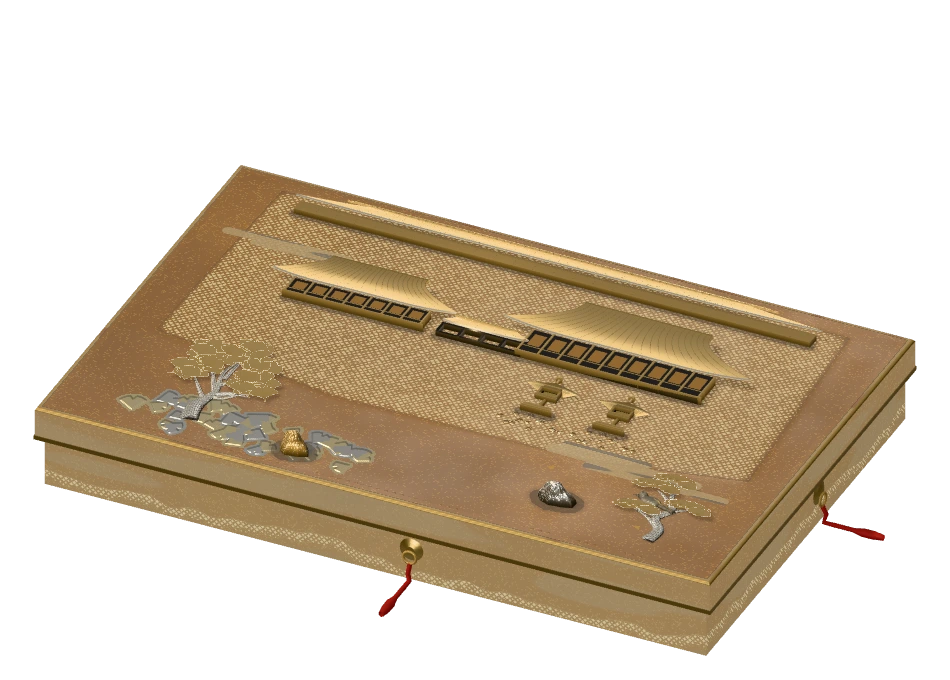
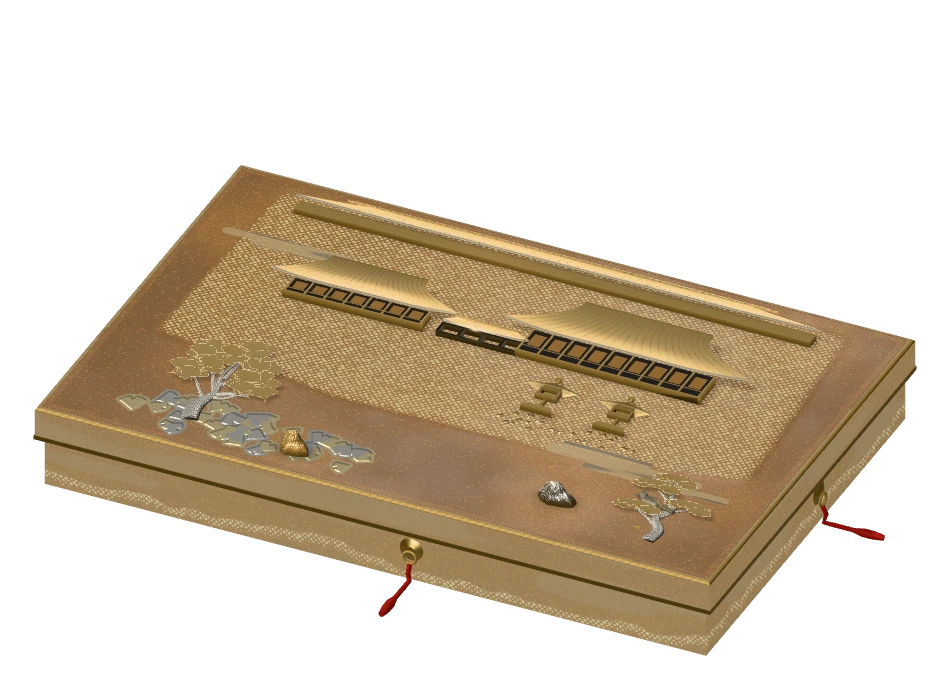
fix(plate): shade at the foot of things is light withheld, not dirt painted on; gradings everywhere
User review: the painted stain was too neat and looked deliberate; what is
light and shadow should not be drawn, and the Hatsune pieces grade everywhere.
- Removed the painted stain, foot line and bank crease from the lid.
- The contact field now only occludes: less ambient and room light reaches the
  lid near a foot, with no colour added and no edge.
- Maki-bokashi carries further on the aged ground; a rock keeps the ground's
  tone at its foot; silver strips in the mist and wear on the lip have soft
  edges; the walls darken in one long grade; feet of pieces are less black.
- Fallback pictures reshot.

diff --git a/src/studies/toji/plate/three-pack.js b/src/studies/toji/plate/three-pack.js
@@ -288,7 +288,7 @@ export const PART_LIGHT_GLSL = `
 // L1 the pieces darken where they meet the ground; L2 faces turned down catch the gold ground's bounce.
 const float K_CONTACT_MIN=.45, K_CONTACT_H=10., K_BOUNCE=.8;
 // With age the foot is darker still and the ground's bounce is duller.
-const float K_AGE_CONTACT_MIN=.22, K_AGE_BOUNCE=.6;
+const float K_AGE_CONTACT_MIN=.36, K_AGE_BOUNCE=.6;
 const vec3 K_BOUNCE_C=vec3(1.,.72,.36);
 const float K_WIN=.55; // soft window reflection intensity on upward-facing metallic parts
 const float K_WIN_SOFT=.35; // soft window reflection angular width (larger is wider)
@@ -308,6 +308,8 @@ vec3 kyotoKiriGold(){return mix(K_KIRI_GOLD,K_KIRI_GOLD_AGED,uAge);}
 // Silver sulphides with age: K_TARNISH is what is left of it at age 1 (a warm dark grey). k is how exposed the place
 // is to it: 1 in the hollows and the shade, less on ridges and foil that handling keeps rubbed bright.
 const vec3 K_TARNISH=vec3(.46,.42,.36);
+const vec3 K_ROCK_FOOT=vec3(.43,.29,.14); // the aged ground's tone, which a rock keeps at its foot
+const float K_ROCK_FOOT_H=9., K_ROCK_FOOT_AMT=.6; // how high the ground's tone climbs the rock, and how fully it takes it
 vec3 kyotoAgedSilver(vec3 c,float k){return c*mix(vec3(1.),K_TARNISH,clamp(uAge*k,0.,1.));}
 const vec3 K_ROCK_BODY_GOLD=vec3(.36,.22,.06); // dark bronze ground between the gold foil on the lit face of a rock
 const vec3 K_ROCK_BODY_SHADE=vec3(.27,.27,.26); // the ground where the rock turns away from the light: oxidized silver, dark
@@ -502,6 +504,7 @@ const vec3 M_AGE_BODY=vec3(.42,.35,.22), M_AGE_BODY_NIGHT=vec3(.80,.74,.62), M_A
 // The coat no longer mirrors evenly (M_AGE_HAZE: how far its gloss swings from place to place), the lacquer lies a
 // little thicker here and thinner there (M_AGE_MURA: the swing in the ground's value), and where a bank's crown has
 // been rubbed for centuries the red-brown under-lacquer shows through the gold (M_AGE_WEAR, M_UNDER).
+const float M_AGE_BOKASHI=2.4;
 const float M_AGE_HAZE=1.1, M_AGE_MURA=.26, M_AGE_WEAR=.3;
 const vec3 M_UNDER=vec3(.21,.075,.04);
 const vec3 M_CORAL=vec3(.60,.115,.06);
@@ -517,16 +520,16 @@ ivec2 mIdent0(vec2 p){
 float mHash(vec2 p){vec3 q=fract(vec3(p.xyx)*.1031);q+=dot(q,q.yzx+33.33);return fract((q.x+q.y)*q.z);}
 vec2 mHash2(vec2 p){vec3 q=fract(vec3(p.xyx)*vec3(.1031,.1030,.0973));q+=dot(q,q.yzx+33.33);return fract((q.xx+q.yz)*q.zy);}
 float mVnoise(vec2 p){vec2 i=floor(p),f=fract(p);f=f*f*(3.-2.*f);return mix(mix(mHash(i),mHash(i+vec2(1.,0.)),f.x),mix(mHash(i+vec2(0.,1.)),mHash(i+1.),f.x),f.y);}
-vec3 mN, mHk, mHp, mKeyC, mPoolC, mAmbC, mWP; float mAtt, mDk, mDp, mWake=0., mSh=1., mBand=0., mSheen=0.;
+vec3 mN, mHk, mHp, mKeyC, mPoolC, mAmbC, mWP; float mAtt, mDk, mDp, mWake=0., mSh=1., mOcc=1., mBand=0., mSheen=0.;
 float mPool(){return M_POOL*mix(1.,M_AGE_POOL,uAge);}
-vec3 mLight(){return M_AMB*mAmbC+(M_KEY*mDk*mKeyC+mPool()*mAtt*mDp*mPoolC)*mSh;}
+vec3 mLight(){return M_AMB*mAmbC*mOcc+(M_KEY*mDk*mKeyC+mPool()*mAtt*mDp*mPoolC)*mSh;}
 vec3 mSpec(float e){return (M_KEY*pow(max(dot(mN,mHk),0.),e)*mKeyC+mPool()*mAtt*pow(max(dot(mN,mHp),0.),e)*mPoolC)*mSh;}
 vec3 mAgedSilver(vec3 f0,vec2 p,float k){return f0*mix(vec3(1.),M_TARNISH,clamp(uAge*k*(.86+.26*smoothstep(.25,.8,mVnoise(p*.05+17.))),0.,1.));}
-vec3 mAgedLacquer(vec3 c){return c*mix(vec3(1.),mix(M_AGE_BODY,M_AGE_BODY_NIGHT,uNight),uAge)+M_AGE_VEIL*uAge*(mAmbC*.55+mKeyC*mDk*.45*mSh);}
+vec3 mAgedLacquer(vec3 c){return c*mix(vec3(1.),mix(M_AGE_BODY,M_AGE_BODY_NIGHT,uNight),uAge)+M_AGE_VEIL*uAge*(mAmbC*.55*mOcc+mKeyC*mDk*.45*mSh);}
 vec3 mRoom(float rough){
   vec3 r=reflect(-uView,mN);
   float up=smoothstep(-.35,1.,r.y),win=smoothstep(mix(.74,.15,rough),1.,dot(r,uKey));
-  return mAmbC*(.04+.30*up*up)+mKeyC*win*mix(1.15,.5,rough);
+  return (mAmbC*(.04+.30*up*up)+mKeyC*win*mix(1.15,.5,rough))*mix(1.,mOcc,.7);
 }
 void mSetLight(vec3 n,vec3 worldPos){
   mN=n;mWP=worldPos;
@@ -613,10 +616,9 @@ export const MAKIE_GROUND_PARS_GLSL = `
 varying float vGlow; uniform float uGlowBase, uGlowGain;
 uniform sampler2D uState, uFine0, uDens, uContact;
 uniform float uDensView, uDensMean;
-// Age at the foot of things: a dark line of bare lacquer hard against the foot (M_AGE_LINE, within _LINE_W of the
-// field's top), a wider stain of dirt round it (M_AGE_STAIN), and the same crease along the edge of a bank.
-const float M_AGE_LINE=.95, M_AGE_LINE_W=.22, M_AGE_STAIN=.55, M_AGE_CREASE=.55;
-const vec3 M_AGE_DIRT=vec3(.085,.06,.042);
+// Where things stand they shut out the room: the lid gets less of the sky's light there (M_OCC_AMB) and a little
+// less of everything else (M_OCC_ALL). It is light withheld, never a colour laid on, and it fades out with no edge.
+const float M_OCC_AMB=.85, M_OCC_ALL=.16;
 const float M_DENS_MORE=${DENSITY.more.toFixed(3)}, M_DENS_LESS=${DENSITY.less.toFixed(3)};
 varying vec2 vKyotoPlate;
 varying vec3 vKyotoWorld, vKyotoNormal, vKyotoTanX, vKyotoTanZ;
@@ -632,7 +634,7 @@ if(abs(kp.x)>M_HALF.x||abs(kp.y)>M_HALF.y){
   vec3 bc=out_>7.4?mMetal(kp,M_GOLD*.92,1.):out_>6.4?mMetal(kp,M_GOLD*.6,1.):mNashiji(kp,.9,M_GOLD);
   // The lip is where hands lift the lid: its gold has worn through to the lacquer in patches, most at the corners.
   float corner=smoothstep(.86,1.,min(abs(kp.x)/M_HALF.x,abs(kp.y)/M_HALF.y));
-  float worn=uAge*step(6.4,out_)*smoothstep(.62-.22*corner,.80,mVnoise(kp*.045+2.))*.7;
+  float worn=uAge*step(6.4,out_)*smoothstep(.46-.22*corner,.86,mVnoise(kp*.045+2.))*.5;
   bc=mix(bc,M_UNDER*(.3+mLight()),worn);
   outgoingLight=mFinish(bc,1.).rgb;
   diffuseColor.a=1.;
@@ -661,13 +663,18 @@ if(abs(kp.x)>M_HALF.x||abs(kp.y)>M_HALF.y){
     }
   #endif
   mSh=mix(1.,sh,.86);
+  // Occlusion from the contact field (bake.js): squared twice over so it has no edge anywhere.
+  float occ=texture(uContact,mPuv(kp)).r;occ*=occ*(3.-2.*occ);
+  mOcc=1.-M_OCC_AMB*occ*uAge;mSh*=1.-M_OCC_ALL*occ*uAge;
   mSetLight(normalize(normalize(vKyotoNormal)-grad.x*vKyotoTanX-grad.y*vKyotoTanZ),vKyotoWorld);
   float line=fine.b;vec3 L=mLight();
   float w=smoothstep(.02,.34,hs);
   float dens=.82+.22*mVnoise(kp*.02),kAmt=0.,wN=0.,wM=0.,wS=0.,bigD=0.,bigCell=6.6,bigSq=0.;
   vec3 tint=M_GOLD,f0=M_GOLD,c=vec3(0.);
   float dField=texture(uDens,mPuv(kp)).r;
-  if(mat==1){wN=1.;dens*=dField>=uDensMean?1.+M_DENS_MORE*(dField-uDensMean)/max(1.-uDensMean,.05):1.-M_DENS_LESS*(uDensMean-dField)/max(uDensMean,.05);}
+  // Maki-bokashi: powder gathers toward things and thins in the open. On an old, darker ground the grading carries
+  // further (M_AGE_BOKASHI times as strong at age 1): it is what joins a form to the ground it stands on.
+  if(mat==1){float bk=mix(1.,M_AGE_BOKASHI,uAge);wN=1.;dens*=dField>=uDensMean?1.+M_DENS_MORE*bk*(dField-uDensMean)/max(1.-uDensMean,.05):1.-min(M_DENS_LESS*bk,.6)*(uDensMean-dField)/max(uDensMean,.05);}
   else if(mat==2||mat==3){
     float cloud=mat==3?mVnoise(kp*.045)*.6+mVnoise(kp*.13)*.3:.55;
     // Land in the Hatsune lids is pale smooth gold; powder gathers thick at the foot and thins toward the crown.
@@ -739,14 +746,6 @@ if(abs(kp.x)>M_HALF.x||abs(kp.y)>M_HALF.y){
     float wr=smoothstep(.62,.95,hs)*smoothstep(.50,.72,mVnoise(M_R1*kp*.07+5.)*.62+mVnoise(M_R2*kp*.19)*.38)*M_AGE_WEAR*uAge;
     c=mix(c,M_UNDER*(.3+L),wr);
   }
-  if(uAge>0.){
-    // The meshes overhang their own footprints, so only the field's lower half shows round them: stretch it.
-    float ct=smoothstep(0.,.6,texture(uContact,mPuv(kp)).r);
-    float lineC=smoothstep(1.-M_AGE_LINE_W,1.-M_AGE_LINE_W*.35,ct),stain=ct*(.45+.55*ct)*(.7+.6*mVnoise(kp*.09));
-    float crease=smoothstep(.0,.012,hs)*(1.-smoothstep(.012,.07,hs))*step(float(mat),4.5)*step(1.5,float(mat));
-    float dirt=clamp(max(lineC*M_AGE_LINE,crease*M_AGE_CREASE)+stain*M_AGE_STAIN,0.,.85)*uAge;
-    c=mix(c,M_AGE_DIRT*(.35+L),dirt);
-  }
   if(uDensView>2.5)c=vec3(texture(uContact,mPuv(kp)).r*.8);
   else if(uDensView>1.5)c=mat==1?vec3(1.,0.,1.):vec3(0.,1.,0.); // dev mask: which pixels are plain ground
   else if(uDensView>.5)c=vec3(dField*.8);
@@ -778,9 +777,9 @@ export const BOX_SIDE_FRAG_GLSL = `
   c=mix(c,mKiriColor(mix(M_GOLD,M_PALE,.6)),kv)+M_PALE*kg;
   // Walls face the room, not the window: keep them a warmer, slightly deeper amber than the lid.
   const float K_SIDE_DIM=.82; // dim box walls one step below the lid while keeping rim and edge bright
-  // Dirt gathers toward the foot of the walls, and under the lid's overhang.
-  float low=smoothstep(-96.,-132.,sp.y)*(.75+.5*mVnoise(vec2(sp.x*.02,7.))),under=body*smoothstep(-47.,-36.,sp.y);
-  c=mix(c,c*vec3(.50,.43,.36),clamp(low*.62+under*.4,0.,.8)*uAge);
+  // The walls darken toward the foot in one long grade, as a box does that has stood on a shelf.
+  float low=smoothstep(-70.,-134.,sp.y);
+  c=mix(c,c*vec3(.56,.49,.42),low*low*.6*uAge);
   outgoingLight=mFinish(c*vec3(1.,.86,.62)*.9*K_SIDE_DIM,1.).rgb;
 }`;
 
@@ -827,7 +826,7 @@ void main(){
   // Suyari-gasumi in the Hatsune lids is dense, bright gold (濃梨子地 into flat gold), clearly richer than the ground.
   vec3 c=.5*mNashiji(vKyotoUv,1.6,mix(M_GOLD,M_PALE,.5))+.5*mMetal(vKyotoUv,M_PALE*.95,1.)+.25*mSheet(M_PALE);
   // Long thin strips of grey silver lie in the gold (the Hatsune mist bands alternate the two metals).
-  float sv=smoothstep(.50,.60,mVnoise(vec2(vKyotoUv.x*.012,vKyotoUv.y*.19)+vPartId*3.7));
+  float sv=smoothstep(.40,.68,mVnoise(vec2(vKyotoUv.x*.012,vKyotoUv.y*.19)+vPartId*3.7));
   c=mix(c,mMetal(vKyotoUv,mAgedSilver(M_OXID,vKyotoUv,1.),1.)*.9+.2*mSheet(mAgedSilver(M_SILVER,vKyotoUv,.7)),sv*.9);
   fragColor=mFinish(c,alpha);
 }`;

diff --git a/src/studies/toji/plate/three-renderer.js b/src/studies/toji/plate/three-renderer.js
@@ -148,7 +148,7 @@ export function createThreeRenderer(gl, canvas) {
     const isRock = isPart && Boolean(spec.rock), isSilverRock = spec.rock === 'silver';
     // Black lacquer on the pieces (walls, plinths) is shin-nuri: polished to a dark mirror.
     const isLacq = isPart && spec.name === 'lacquer';
-    material.customProgramCacheKey = () => `kyoto-${call}-${spec.glow ? 1 : 0}${isPart ? '-l2w' : ''}${isRock ? `-rock-kiri-v3${isSilverRock ? 's' : ''}` : ''}${isLacq ? '-shinnuri' : ''}`;
+    material.customProgramCacheKey = () => `kyoto-${call}-${spec.glow ? 1 : 0}${isPart ? '-l2w' : ''}${isRock ? `-rock-kiri-v4${isSilverRock ? 's' : ''}` : ''}${isLacq ? '-shinnuri' : ''}`;
     material.onBeforeCompile = shader => {
       bindGlow(shader, spec);
       shader.vertexShader = shader.vertexShader
@@ -175,7 +175,9 @@ vec3 kyotoRockFoil = kyotoRockSilver ? kyotoAgedSilver(mix(K_ROCK_FOIL_OXID, K_R
 // Old foil is uneven: some squares have dulled, more of them in silver than in gold.
 kyotoRockFoil *= mix(.9 + .2 * kyotoRockTone, kyotoRockSilver ? .62 + .62 * kyotoRockTone : .74 + .42 * kyotoRockTone, uAge);
 diffuseColor.rgb = mix(kyotoAgedSilver(K_ROCK_BODY_SHADE, 1.), kyotoRockSilver ? kyotoAgedSilver(K_ROCK_BODY_SILVER, .8) : K_ROCK_BODY_GOLD, kyotoRockLit);
-diffuseColor.rgb = mix(diffuseColor.rgb, kyotoRockFoil, kyotoRockKiri * K_ROCK_KIRI_COVER);`)
+diffuseColor.rgb = mix(diffuseColor.rgb, kyotoRockFoil, kyotoRockKiri * K_ROCK_KIRI_COVER);
+// The mound rises out of the lid: at its foot it is still the ground's own tone, with no edge between them.
+diffuseColor.rgb = mix(diffuseColor.rgb, K_ROCK_FOOT, (1. - smoothstep(0., K_ROCK_FOOT_H, vLift)) * K_ROCK_FOOT_AMT * uAge);`)
           .replace('#include <roughnessmap_fragment>', `#include <roughnessmap_fragment>
 roughnessFactor = mix(K_OXID_ROUGH, roughnessFactor, kyotoRockLit);
 roughnessFactor = mix(roughnessFactor, mix(K_KIRI_ROUGH, K_KIRI_ROUGH_NIGHT, uNight), kyotoRockKiri);`);

diff --git a/docs/HANDOFF.md b/docs/HANDOFF.md
@@ -31,7 +31,7 @@ npm run dev -- --host 127.0.0.1 --strictPort
 |---|---|
 | 資料 | **792 筆**，`validate_data.js --strict` ERROR 0／WARN 0。2026-11-16 查完十一區所有食處（Tabelog）與「世界遺產」「國寶」標籤：退役 17 筆、改區 27 筆。「營業中」的依據是 Tabelog 英文版沒有閉店類標示，不是現場確認。寺社、商店等其他類型的事實查核還沒做 |
 | 首頁文庫 | 十一區文箱，每區一面蒔繪盤；單指盒面移光，長拖換函，雙指捏合／滾輪／快捷鍵放大（上限 3 倍），點蓋／Enter／空白鍵開蓋直入 `DetailView`；月光預設、閒置移光 |
-| 蒔繪盤 | **只有 three.js 一條管線**（`plate/three-renderer.js`＋`three-pack.js`）。舊的自寫 WebGL2 管線、2.5D 浮雕與 `?three=0` 已刪。狐、鳳凰、鶯、銀沙灘與向月台、石垣都是 three 網格，沒有平塗佔位。岩面是菱形切金（受光大而密、背光小而疏），銀岩是銀。地有疏密場（靠近物較密）。九區有依附小景（`plate/<區>.js` 裡帶 `on` 欄位的部件）。**銀的分工**（2026-11-16 對照德川美術館「初音蒔絵文台・硯箱（部分）」照片）：葉是金的樹，幹與枝是銀（背光氧化銀灰、受光淡銀、上面是切銀）；開銀花的櫻保留金幹；霞帶的金裡躺著細長的灰銀條。**作舊**（`claude/patina-1116`，未上線）：總開關 `?age=0..1`（預設 .85，0 是全新）；地是深棕橙的梨子地、圖的金比地淡、岩與樹幹的陰面是硫化銀的暖深灰、部件腳邊有積汙；代表白色的銀（砂、狐、花）保持淡；紅珊瑚（`MAT.coral`）用在楓葉、梅心、「大」字 |
+| 蒔繪盤 | **只有 three.js 一條管線**（`plate/three-renderer.js`＋`three-pack.js`）。舊的自寫 WebGL2 管線、2.5D 浮雕與 `?three=0` 已刪。狐、鳳凰、鶯、銀沙灘與向月台、石垣都是 three 網格，沒有平塗佔位。岩面是菱形切金（受光大而密、背光小而疏），銀岩是銀。地有疏密場（靠近物較密）。九區有依附小景（`plate/<區>.js` 裡帶 `on` 欄位的部件）。**銀的分工**（2026-11-16 對照德川美術館「初音蒔絵文台・硯箱（部分）」照片）：葉是金的樹，幹與枝是銀（背光氧化銀灰、受光淡銀、上面是切銀）；開銀花的櫻保留金幹；霞帶的金裡躺著細長的灰銀條。**作舊**（`claude/patina-1116`，未上線）：總開關 `?age=0..1`（預設 .85，0 是全新）；地是深棕橙的梨子地、圖的金比地淡、岩與樹幹的陰面是硫化銀的暖深灰；部件腳邊只有光影（環境光遮蔽與投影），沒有畫上去的汙；粉的疏密過渡加強；代表白色的銀（砂、狐、花）保持淡；紅珊瑚（`MAT.coral`）用在楓葉、梅心、「大」字 |
 | 降級 | 沒有 WebGL2、three 載入或啟動失敗、context 遺失、或網址加 `?plate=static` 時，顯示預渲染的靜態圖（`plate/static/` 22 張 webp，十一區 × 日夜），換函與開蓋照常，盒面不動。**盤面有改動就要重拍**：`node scripts/plate-fallback-shots.mjs`（dev server 在 3000） |
 | 全站 UI | 手機優先、深色預設；暖日／月光、語系、減少動態全站共用（色票唯一來源 `src/theme.css`）。卡片有傾斜與柔光（觸控只有按壓回饋）、篩選後新卡片淡入；30 張以上的列表分批渲染（`src/lib/batch-render.ts`） |
 | 背景 | すやり霞＋和紙＋金箔／銀塵、障子格光與卓面光澤（`backdrop.js`）；十一區各自的紋樣與一行短句（`ward-art.js`，2026-11-16 改寫為「地標＋該區另一個重點」） |
@@ -52,7 +52,7 @@ npm run dev -- --host 127.0.0.1 --strictPort
 
 ## 4. 下一步
 
-1. **等使用者決定**：`claude/patina-1116` 合併進 `main`、push（各自分開問）。上線前建議使用者在本機看：十一區日夜、放大後岩石腳邊的積汙、`?age=0` 與 `?age=1` 的對照。
+1. **等使用者決定**：`claude/patina-1116` 合併進 `main`、push（各自分開問）。上線前建議使用者在本機看：十一區日夜、放大後岩石腳邊的光影與粉的過渡、`?age=0` 與 `?age=1` 的對照。
 2. 地圖：使用者 2026-11-16 決定不做（現況夠用）。[備忘錄](plans/2026-11-16-r10-map-evaluation.md)留作紀錄。
 3. 12 月複查三家店：HY-065 八咫（臨時休業）、NK-120 村上開新堂（改裝休業）、NK-111（新店無評論）；仍未營業就退役。
 4. 還沒做的：歲時記（R11）；寺社與商店類的事實查核；各食處報告裡列的描述細節（米其林、創業年）；背景霞帶避開盒子的輪廓是照舊盒子調的，比 three 的盒子窄 2–10 px。
@@ -63,7 +63,7 @@ npm run dev -- --host 127.0.0.1 --strictPort
 ## 5. 不變條件（摘要；全文見 `AGENTS.md` §2）
 
 - 十一區、古地名與地標保留；蒔繪和區界是同一畫面，不恢復切換或下方清單當主要入口。
-- 設計語言一律依初音調度（`MAKIE_THREE_PLAN.md` §2a）。小景只能依附於物、逐區設計，不可隨機撒（`MAKIE_COMPOSITION_PLAN.md` §7）。立體做大形，特徵用平嵌的切金銀意象。
+- 設計語言一律依初音調度（`MAKIE_THREE_PLAN.md` §2a）。明暗差用光照與遮蔽做，不往表面混暗色；任何兩種表面相接都要有漸變（使用者 2026-11-16）。小景只能依附於物、逐區設計，不可隨機撒（`MAKIE_COMPOSITION_PLAN.md` §7）。立體做大形，特徵用平嵌的切金銀意象。
 - `municipalityId: 'M_OTSU'` 是唯一授權過的受保護型別擴充；其餘受保護檔案仍不可改。
 - 所有導航共用 `buildGoogleMapsUrl`；地標座標只讀 `SPOT_POSITIONS`。
 - `theme.css`、`index.css`、`bunko-ui.css`、`ClusterMap.tsx`、`study.css`、`bunko.css`、`backdrop.js`、`ward-art.js` 屬同一視覺工作線，同時只能有一個寫入者。
